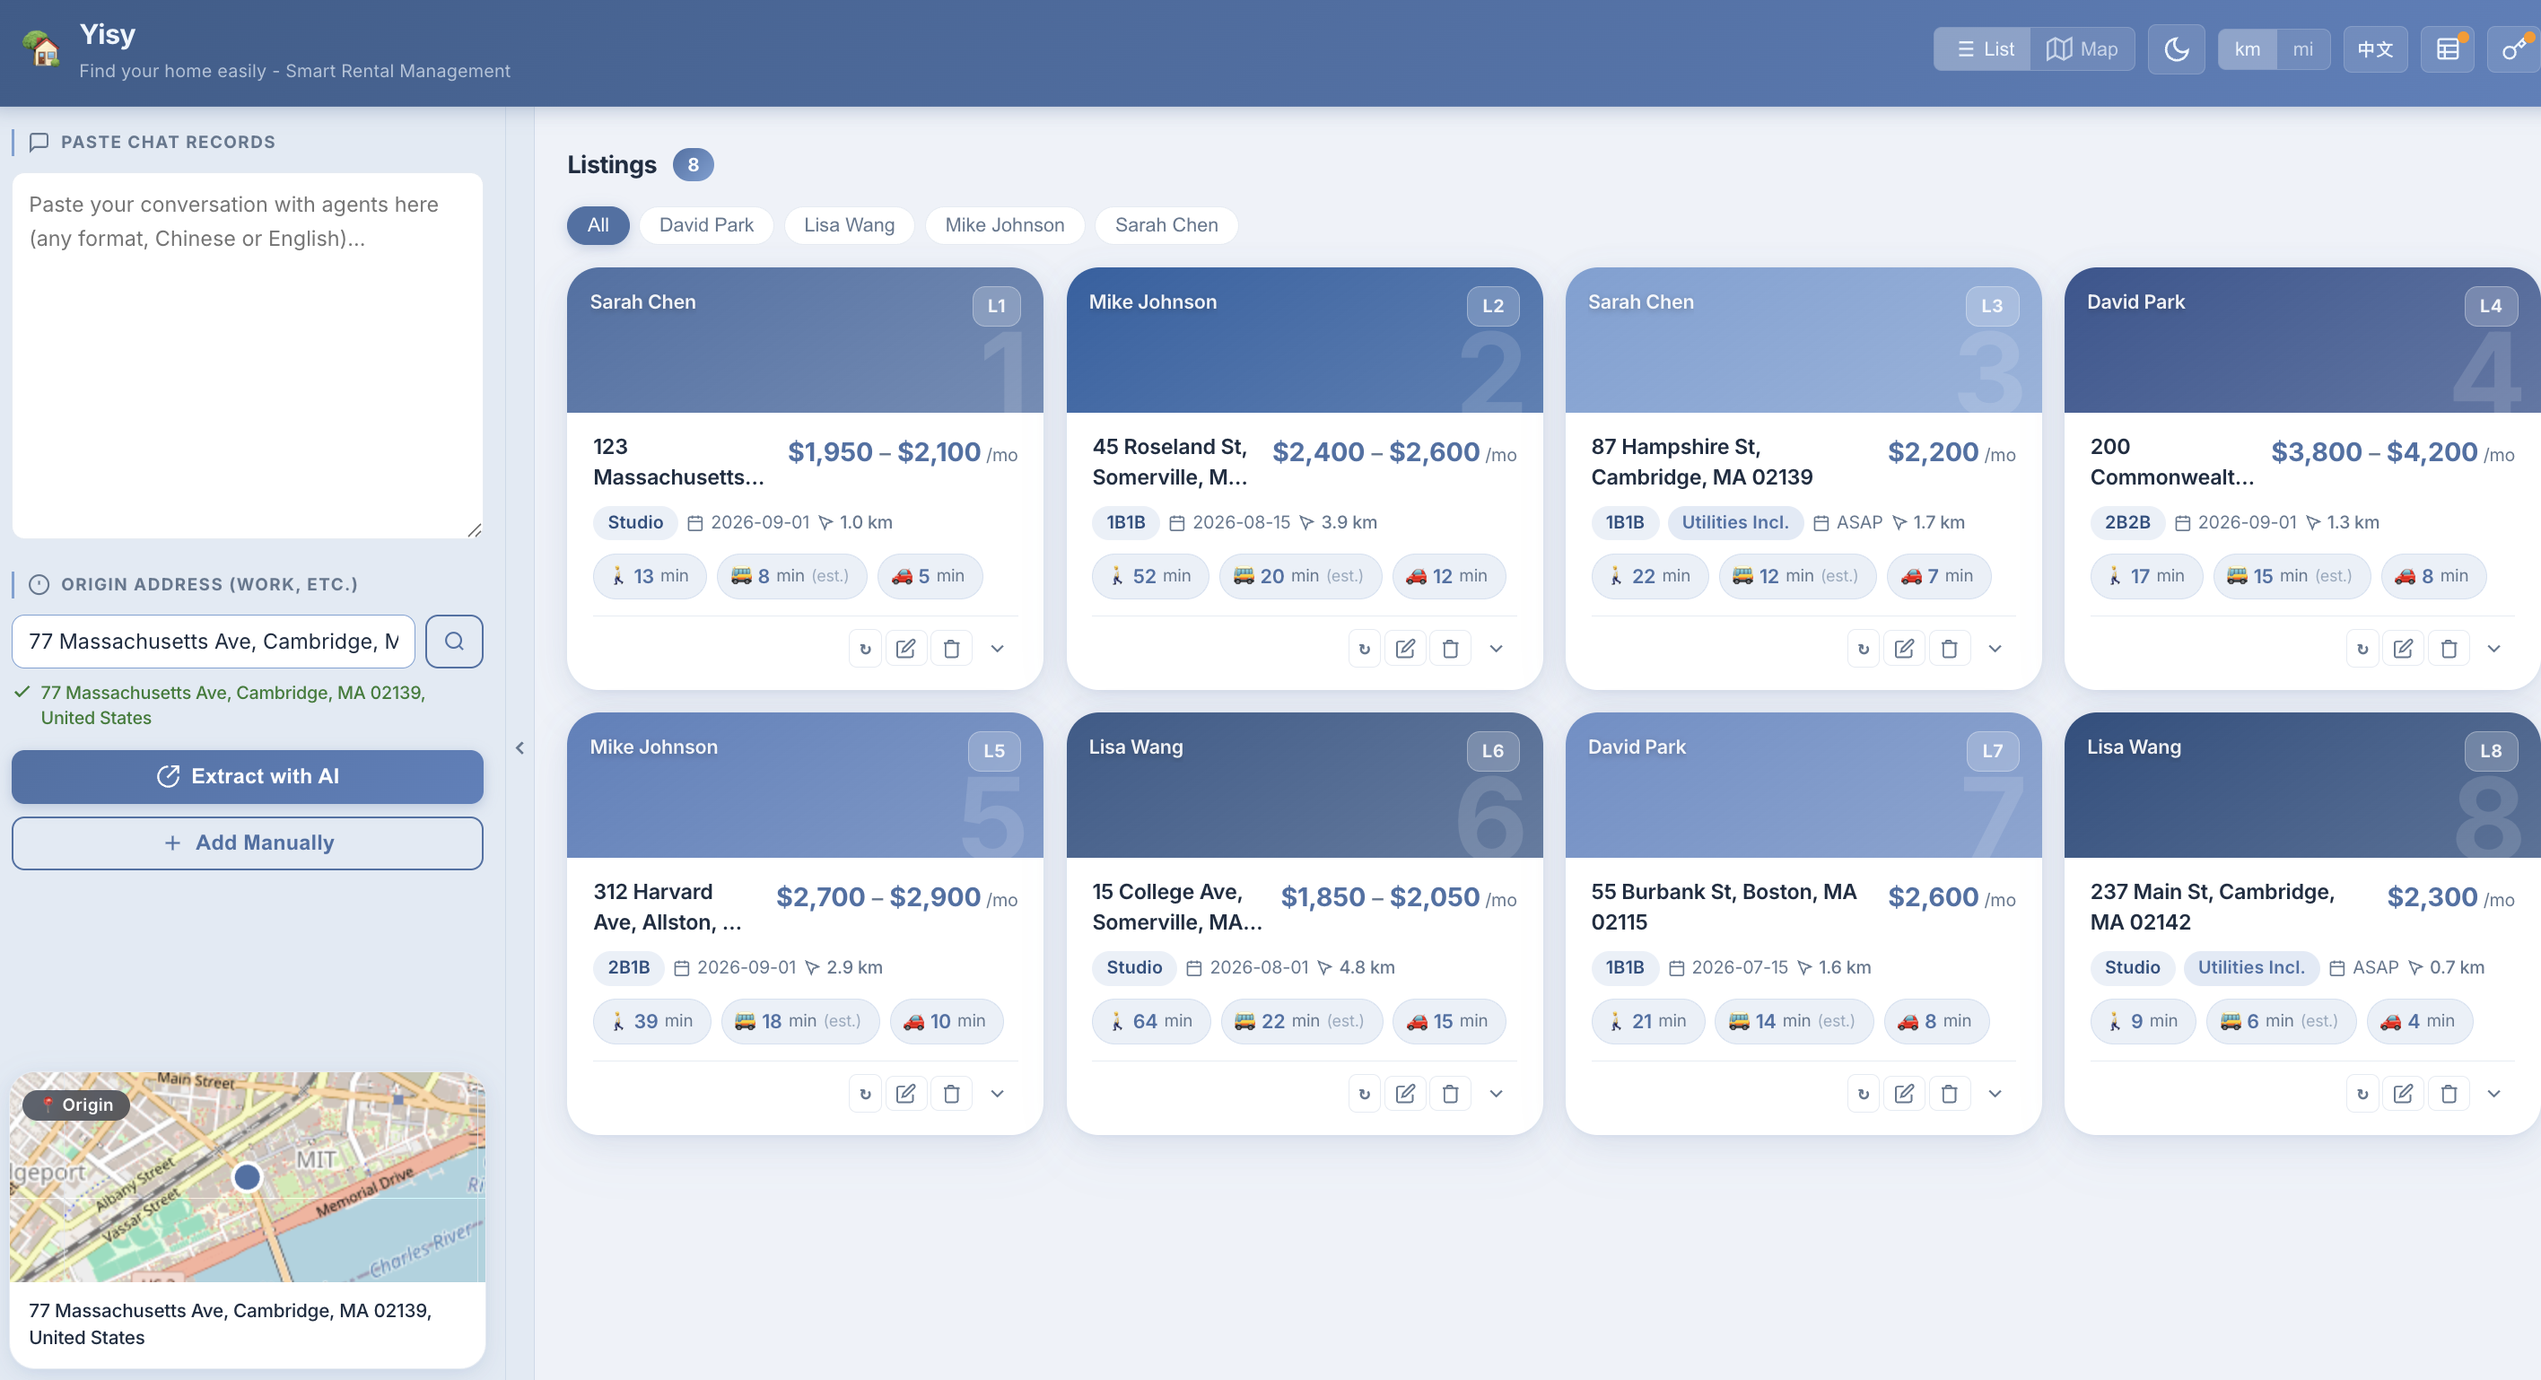
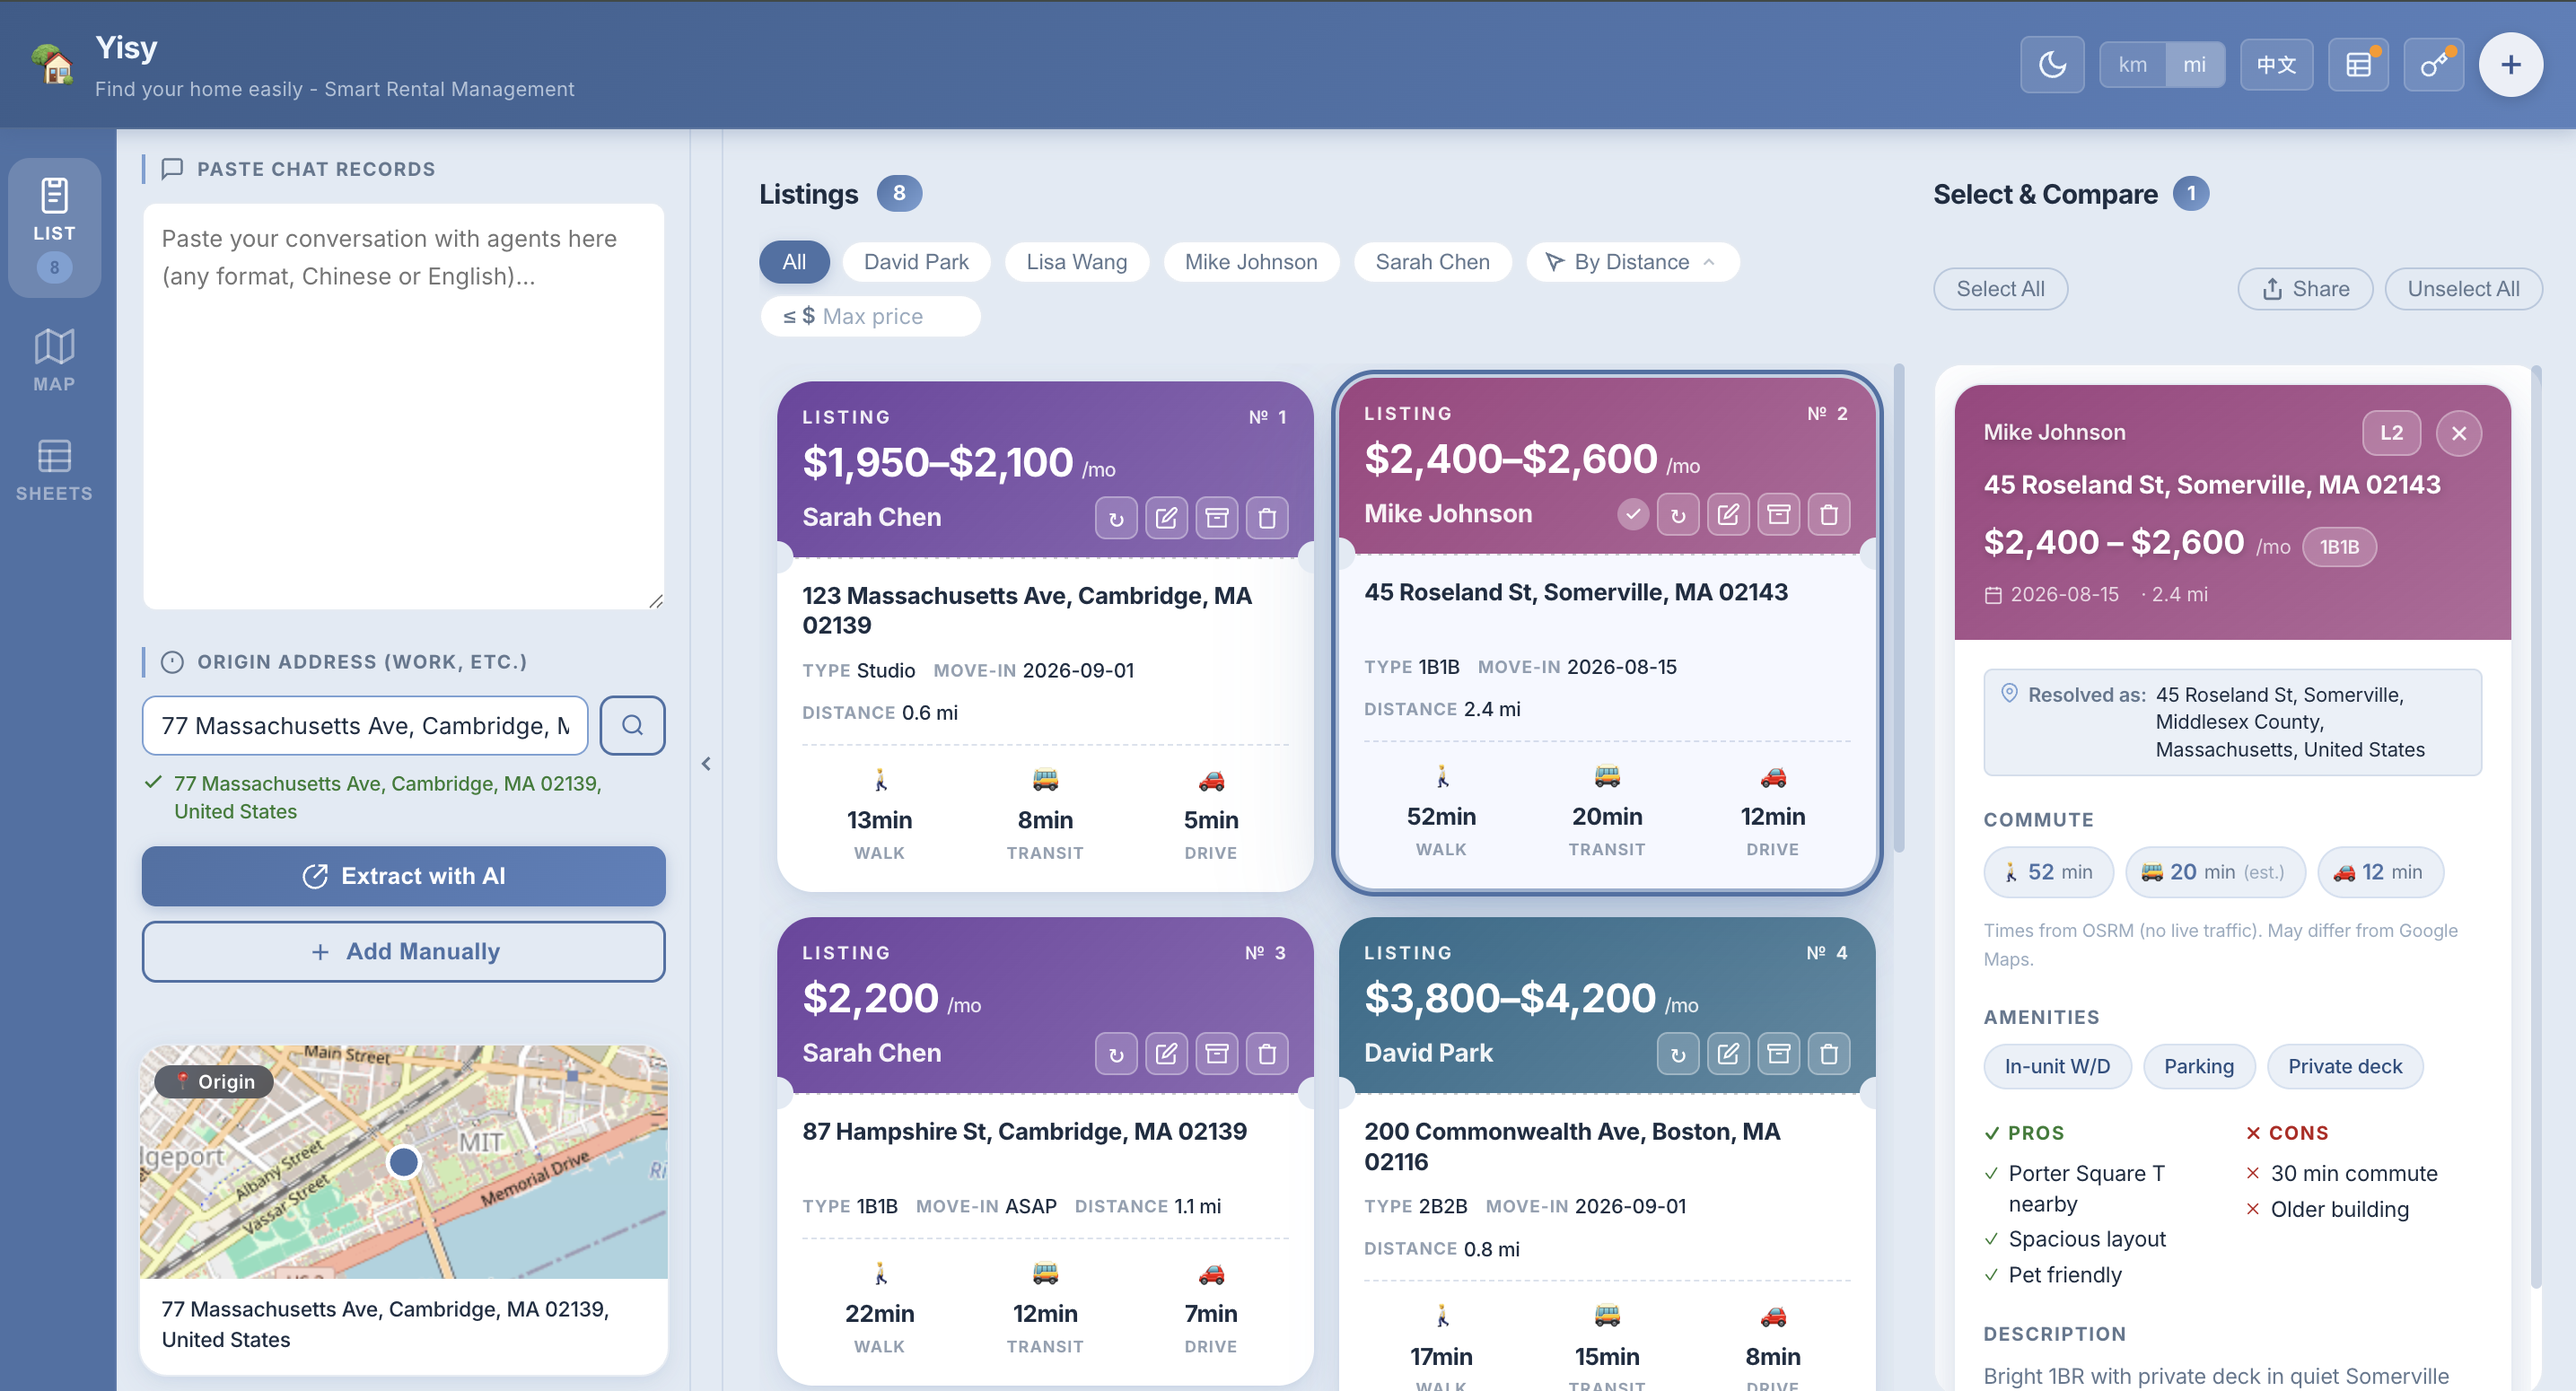
Change left nav and update pic

diff --git a/src/components/NavRail.jsx b/src/components/NavRail.jsx
@@ -1,0 +1,44 @@
+export default function NavRail({ view, onViewChange, listCount }) {
+  return (
+    <nav className="nav-rail">
+      <button
+        className={`nav-rail-item${view === 'list' ? ' active' : ''}`}
+        onClick={() => onViewChange('list')}
+      >
+        <svg width="22" height="22" viewBox="0 0 24 24" fill="none" stroke="currentColor" strokeWidth="1.8" strokeLinecap="round" strokeLinejoin="round">
+          <rect x="5" y="2" width="14" height="20" rx="2"/>
+          <path d="M9 2v4h6V2"/>
+          <line x1="9" y1="11" x2="15" y2="11"/>
+          <line x1="9" y1="15" x2="13" y2="15"/>
+        </svg>
+        <span className="nav-rail-label">LIST</span>
+        {listCount > 0 && <span className="nav-rail-count">{listCount}</span>}
+      </button>
+
+      <button
+        className={`nav-rail-item${view === 'map' ? ' active' : ''}`}
+        onClick={() => onViewChange('map')}
+      >
+        <svg width="22" height="22" viewBox="0 0 24 24" fill="none" stroke="currentColor" strokeWidth="1.8" strokeLinecap="round" strokeLinejoin="round">
+          <polygon points="1 6 1 22 8 18 16 22 23 18 23 2 16 6 8 2 1 6"/>
+          <line x1="8" y1="2" x2="8" y2="18"/>
+          <line x1="16" y1="6" x2="16" y2="22"/>
+        </svg>
+        <span className="nav-rail-label">MAP</span>
+      </button>
+
+      <button
+        className={`nav-rail-item${view === 'sheets' ? ' active' : ''}`}
+        onClick={() => onViewChange('sheets')}
+      >
+        <svg width="22" height="22" viewBox="0 0 24 24" fill="none" stroke="currentColor" strokeWidth="1.8" strokeLinecap="round" strokeLinejoin="round">
+          <rect x="3" y="3" width="18" height="18" rx="2"/>
+          <line x1="3" y1="9" x2="21" y2="9"/>
+          <line x1="3" y1="15" x2="21" y2="15"/>
+          <line x1="9" y1="9" x2="9" y2="21"/>
+        </svg>
+        <span className="nav-rail-label">SHEETS</span>
+      </button>
+    </nav>
+  );
+}

diff --git a/src/App.jsx b/src/App.jsx
@@ -1,5 +1,6 @@
 import { useState, useCallback, useEffect, useRef } from 'react';
 import Header from './components/Header.jsx';
+import NavRail from './components/NavRail.jsx';
 import OriginCard from './components/OriginCard.jsx';
 import InputPanel from './components/InputPanel.jsx';
 import ListingList from './components/ListingList.jsx';
@@ -336,6 +337,12 @@ export default function App() {
       />
 
       <div className="workspace">
+        <NavRail
+          view={view}
+          onViewChange={v => setView(v)}
+          listCount={listings.filter(l => !l.archived).length}
+        />
+
         <aside className={`sidebar ${sidebarOpen ? '' : 'closed'}`}>
           <div className="sidebar-inner">
             <div className="sidebar-scroll-area">
@@ -391,13 +398,23 @@ export default function App() {
               lang={lang}
               distanceUnit={distanceUnit}
             />
-          ) : (
+          ) : view === 'map' ? (
             <MapView
               listings={listings}
               origin={origin}
               tr={tr}
               lang={lang}
             />
+          ) : (
+            <div className="sheets-placeholder">
+              <svg width="40" height="40" viewBox="0 0 24 24" fill="none" stroke="currentColor" strokeWidth="1.5" strokeLinecap="round" strokeLinejoin="round">
+                <rect x="3" y="3" width="18" height="18" rx="2"/>
+                <line x1="3" y1="9" x2="21" y2="9"/>
+                <line x1="3" y1="15" x2="21" y2="15"/>
+                <line x1="9" y1="9" x2="9" y2="21"/>
+              </svg>
+              <p>{lang === 'zh' ? 'Sheets 同步即将上线' : 'Sheets sync coming soon'}</p>
+            </div>
           )}
         </main>
       </div>

diff --git a/src/App.css b/src/App.css
@@ -88,6 +88,62 @@ body {
   position: relative;
 }
 
+/* Nav Rail */
+.nav-rail {
+  width: 68px;
+  flex-shrink: 0;
+  background: var(--header-bg);
+  display: flex;
+  flex-direction: column;
+  align-items: center;
+  padding: 16px 0;
+  gap: 6px;
+  border-right: 1px solid rgba(255,255,255,0.07);
+  z-index: 10;
+}
+
+.nav-rail-item {
+  display: flex;
+  flex-direction: column;
+  align-items: center;
+  gap: 5px;
+  width: 52px;
+  padding: 10px 6px 8px;
+  border: none;
+  border-radius: 12px;
+  background: none;
+  color: rgba(255,255,255,0.45);
+  cursor: pointer;
+  transition: background 0.15s, color 0.15s;
+}
+.nav-rail-item:hover {
+  background: rgba(255,255,255,0.09);
+  color: rgba(255,255,255,0.8);
+}
+.nav-rail-item.active {
+  background: rgba(255,255,255,0.16);
+  color: #fff;
+}
+
+.nav-rail-label {
+  font-size: 10px;
+  font-weight: 700;
+  letter-spacing: 0.06em;
+  line-height: 1;
+}
+
+.nav-rail-count {
+  background: var(--primary-light);
+  color: var(--header-bg);
+  border-radius: 20px;
+  padding: 1px 7px;
+  font-size: 10px;
+  font-weight: 700;
+  min-width: 20px;
+  text-align: center;
+  line-height: 1.6;
+}
+
 /* Sidebar */
 .sidebar {
   width: 320px;
@@ -788,6 +844,18 @@ body {
   gap: 14px;
   align-items: start;
 }
+
+.sheets-placeholder {
+  flex: 1;
+  display: flex;
+  flex-direction: column;
+  align-items: center;
+  justify-content: center;
+  gap: 14px;
+  color: var(--text-muted);
+}
+.sheets-placeholder svg { opacity: 0.35; }
+.sheets-placeholder p { font-size: 14px; }
 
 .empty-state {
   flex: 1;

diff --git a/src/components/Header.jsx b/src/components/Header.jsx
@@ -27,33 +27,6 @@ export default function Header({ lang, theme, view, apiKey, scriptUrl, distanceU
       </div>
 
       <div className="header-right">
-        {/* View toggle */}
-        <div className="toggle-group">
-          <button
-            className={`toggle-btn ${view === 'list' ? 'active' : ''}`}
-            onClick={() => onViewChange('list')}
-            title={tr('viewList')}
-          >
-            <svg width="16" height="16" viewBox="0 0 24 24" fill="none" stroke="currentColor" strokeWidth="2">
-              <line x1="8" y1="6" x2="21" y2="6"/><line x1="8" y1="12" x2="21" y2="12"/>
-              <line x1="8" y1="18" x2="21" y2="18"/><line x1="3" y1="6" x2="3.01" y2="6"/>
-              <line x1="3" y1="12" x2="3.01" y2="12"/><line x1="3" y1="18" x2="3.01" y2="18"/>
-            </svg>
-            <span>{tr('viewList')}</span>
-          </button>
-          <button
-            className={`toggle-btn ${view === 'map' ? 'active' : ''}`}
-            onClick={() => onViewChange('map')}
-            title={tr('viewMap')}
-          >
-            <svg width="16" height="16" viewBox="0 0 24 24" fill="none" stroke="currentColor" strokeWidth="2">
-              <polygon points="1 6 1 22 8 18 16 22 23 18 23 2 16 6 8 2 1 6"/>
-              <line x1="8" y1="2" x2="8" y2="18"/><line x1="16" y1="6" x2="16" y2="22"/>
-            </svg>
-            <span>{tr('viewMap')}</span>
-          </button>
-        </div>
-
         {/* Theme toggle */}
         <button
           className="icon-btn"
